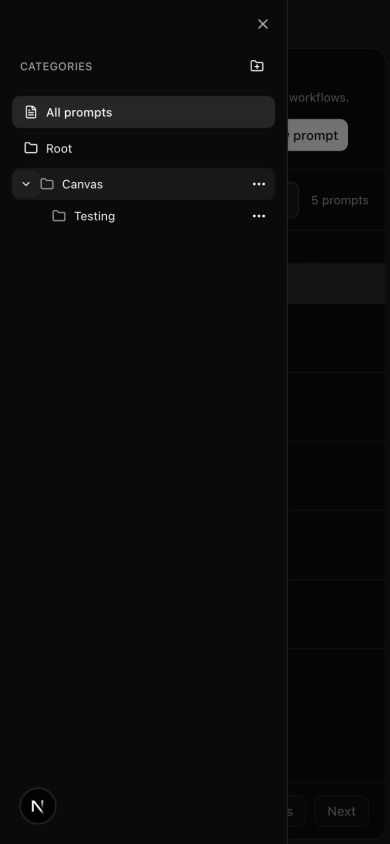
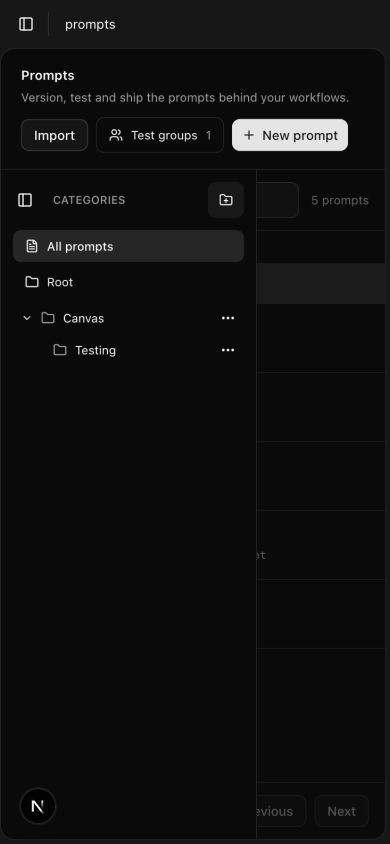
fix(studio): anchor categories within the prompt library body

diff --git a/apps/studio/src/features/prompts/components/prompt-library.tsx b/apps/studio/src/features/prompts/components/prompt-library.tsx
@@ -19,7 +19,8 @@ import {
   Users,
 } from "lucide-react";
 import { parseAsArrayOf, parseAsString, parseAsStringLiteral } from "nuqs";
-import { useEffect, useState } from "react";
+import { Collapsible } from "radix-ui";
+import { useEffect, useRef, useState } from "react";
 import {
   DataTable,
   type DataTableColumn,
@@ -37,12 +38,6 @@ import {
   DropdownMenuTrigger,
 } from "@/components/ui/dropdown-menu";
 import { Input } from "@/components/ui/input";
-import {
-  Sheet,
-  SheetContent,
-  SheetTitle,
-  SheetTrigger,
-} from "@/components/ui/sheet";
 import { EvalDropdown } from "@/features/evals/components/eval-dropdown";
 import { useStudioQueryStates } from "@/lib/nuqs";
 import { useRouter } from "@/lib/scoped-navigation";
@@ -73,6 +68,11 @@ export function PromptLibraryView({
   categoryId?: string;
 }) {
   const [categoriesOpen, setCategoriesOpen] = useState(false);
+  const categoryTrigger = useRef<HTMLButtonElement>(null);
+  const closeCategories = () => {
+    setCategoriesOpen(false);
+    categoryTrigger.current?.focus();
+  };
   const router = useRouter(),
     [library, setLibrary] = useState(initial),
     [error, setError] = useState(initialError),
@@ -462,29 +462,53 @@ export function PromptLibraryView({
           </Button>
         </div>
       )}
-      <div className="flex min-h-0 flex-1">
-        <div className="shrink-0 border-r p-1.5 xl:hidden">
-          <Sheet open={categoriesOpen} onOpenChange={setCategoriesOpen}>
-            <SheetTrigger asChild>
-              <Button
-                size="icon"
-                variant="ghost"
-                aria-label="Open categories"
-                title="Categories"
-              >
-                <PanelLeft className="size-4" />
-              </Button>
-            </SheetTrigger>
-            <SheetContent
-              side="left"
-              className="w-72 max-w-[85vw] gap-0 overflow-y-auto p-3 pt-12"
-              aria-describedby={undefined}
+      <div
+        className="relative isolate flex min-h-0 flex-1"
+        data-prompt-library-body
+      >
+        {categoriesOpen && (
+          <button
+            type="button"
+            aria-label="Close categories"
+            tabIndex={-1}
+            className="absolute inset-0 z-10 bg-background/40 xl:hidden"
+            onClick={closeCategories}
+          />
+        )}
+        <Collapsible.Root
+          open={categoriesOpen}
+          onOpenChange={setCategoriesOpen}
+          className="w-11 shrink-0 border-r px-1.5 py-3 xl:hidden"
+          onKeyDown={(event) => {
+            if (event.key === "Escape" && categoriesOpen) {
+              event.preventDefault();
+              event.stopPropagation();
+              closeCategories();
+            }
+          }}
+        >
+          <Collapsible.Trigger asChild>
+            <Button
+              ref={categoryTrigger}
+              size="icon"
+              variant="ghost"
+              className="relative z-30"
+              aria-label={
+                categoriesOpen ? "Collapse categories" : "Open categories"
+              }
+              title={categoriesOpen ? "Collapse categories" : "Categories"}
             >
-              <SheetTitle className="sr-only">Prompt categories</SheetTitle>
-              {categoryNavigation}
-            </SheetContent>
-          </Sheet>
-        </div>
+              <PanelLeft className="size-4" />
+            </Button>
+          </Collapsible.Trigger>
+          <Collapsible.Content
+            role="navigation"
+            aria-label="Prompt categories"
+            className="absolute inset-y-0 left-0 z-20 w-64 max-w-[calc(100%-3rem)] overflow-y-auto border-r bg-background p-3 shadow-lg [&>div:first-child]:pl-8"
+          >
+            {categoryNavigation}
+          </Collapsible.Content>
+        </Collapsible.Root>
         <aside className="hidden w-56 shrink-0 overflow-y-auto border-r p-3 xl:block">
           {categoryNavigation}
         </aside>

diff --git a/apps/studio/e2e/prompt-drawers.spec.ts b/apps/studio/e2e/prompt-drawers.spec.ts
@@ -573,20 +573,26 @@ test.describe("Prompt detail drawers", () => {
         exact: true,
       });
       await trigger.click();
-      const categories = page.getByRole("dialog", {
+      const categories = page.getByRole("navigation", {
         name: "Prompt categories",
         exact: true,
       });
       await expect(categories).toBeVisible();
-      await expect
-        .poll(async () => (await categories.boundingBox())?.x)
-        .toBe(0);
       const bounds = await categories.boundingBox();
+      const body = await page
+        .locator("[data-prompt-library-body]")
+        .boundingBox();
+      expect(bounds!.x).toBe(body!.x);
+      expect(bounds!.y).toBe(body!.y);
+      expect(bounds!.height).toBe(body!.height);
+      expect(bounds!.y).toBeGreaterThan(0);
       expect(bounds!.width).toBeLessThan(width);
       await expect(
         categories.getByRole("link", { name: categoryName, exact: true }),
       ).toBeVisible();
-      await page.keyboard.press("Escape");
+      await page
+        .getByRole("button", { name: "Collapse categories", exact: true })
+        .press("Escape");
       await expect(categories).toHaveCount(0);
       await expect(trigger).toBeFocused();
       await trigger.click();

diff --git a/apps/studio/src/features/prompts/components/prompt-action-surface.tsx b/apps/studio/src/features/prompts/components/prompt-action-surface.tsx
@@ -66,6 +66,10 @@ export function PromptActionSurface({
           // Radix restores focus after unmount. Do not steal it from a menu or
           // another control the user has already opened in that frame.
           event.preventDefault();
+          // A newly mounted menu may not have received autofocus yet. Restoring
+          // the old trigger in that gap dismisses the menu as an outside focus.
+          if (document.querySelector('[role="menu"][data-state="open"]'))
+            return;
           const active = document.activeElement;
           if (active === document.body || content.current?.contains(active)) {
             if (returnFocus.current?.isConnected) returnFocus.current.focus();

diff --git a/docs/qa/studio-prompts/README.md b/docs/qa/studio-prompts/README.md
@@ -255,7 +255,7 @@ setup/cleanup).
 ### Prompt actions and drawer polish (2026-10-09)
 
 Each prompt row now has an unpinned actions menu and centered selection checkbox.
-On narrow screens, a compact left rail opens the category tree in a platform sheet.
+On narrow screens, a compact left rail opens the category tree inside the library body, below its header.
 Category navigation, Escape dismissal, focus return and opening the category modal
 are covered at tablet and mobile widths.
 The sidebar reads **Prompt Management → Prompts**. Detail headers use two compact
@@ -284,5 +284,7 @@ an immediate reload.
 ![Archive confirmation](prompt-archive-confirmation.png)
 
 ![Mobile action modal](mobile-prompt-action.png)
+
+![Category sidebar anchored to the library body](category-sidebar.png)
 
 ![Mobile category sidebar](mobile-category-sidebar.png)
